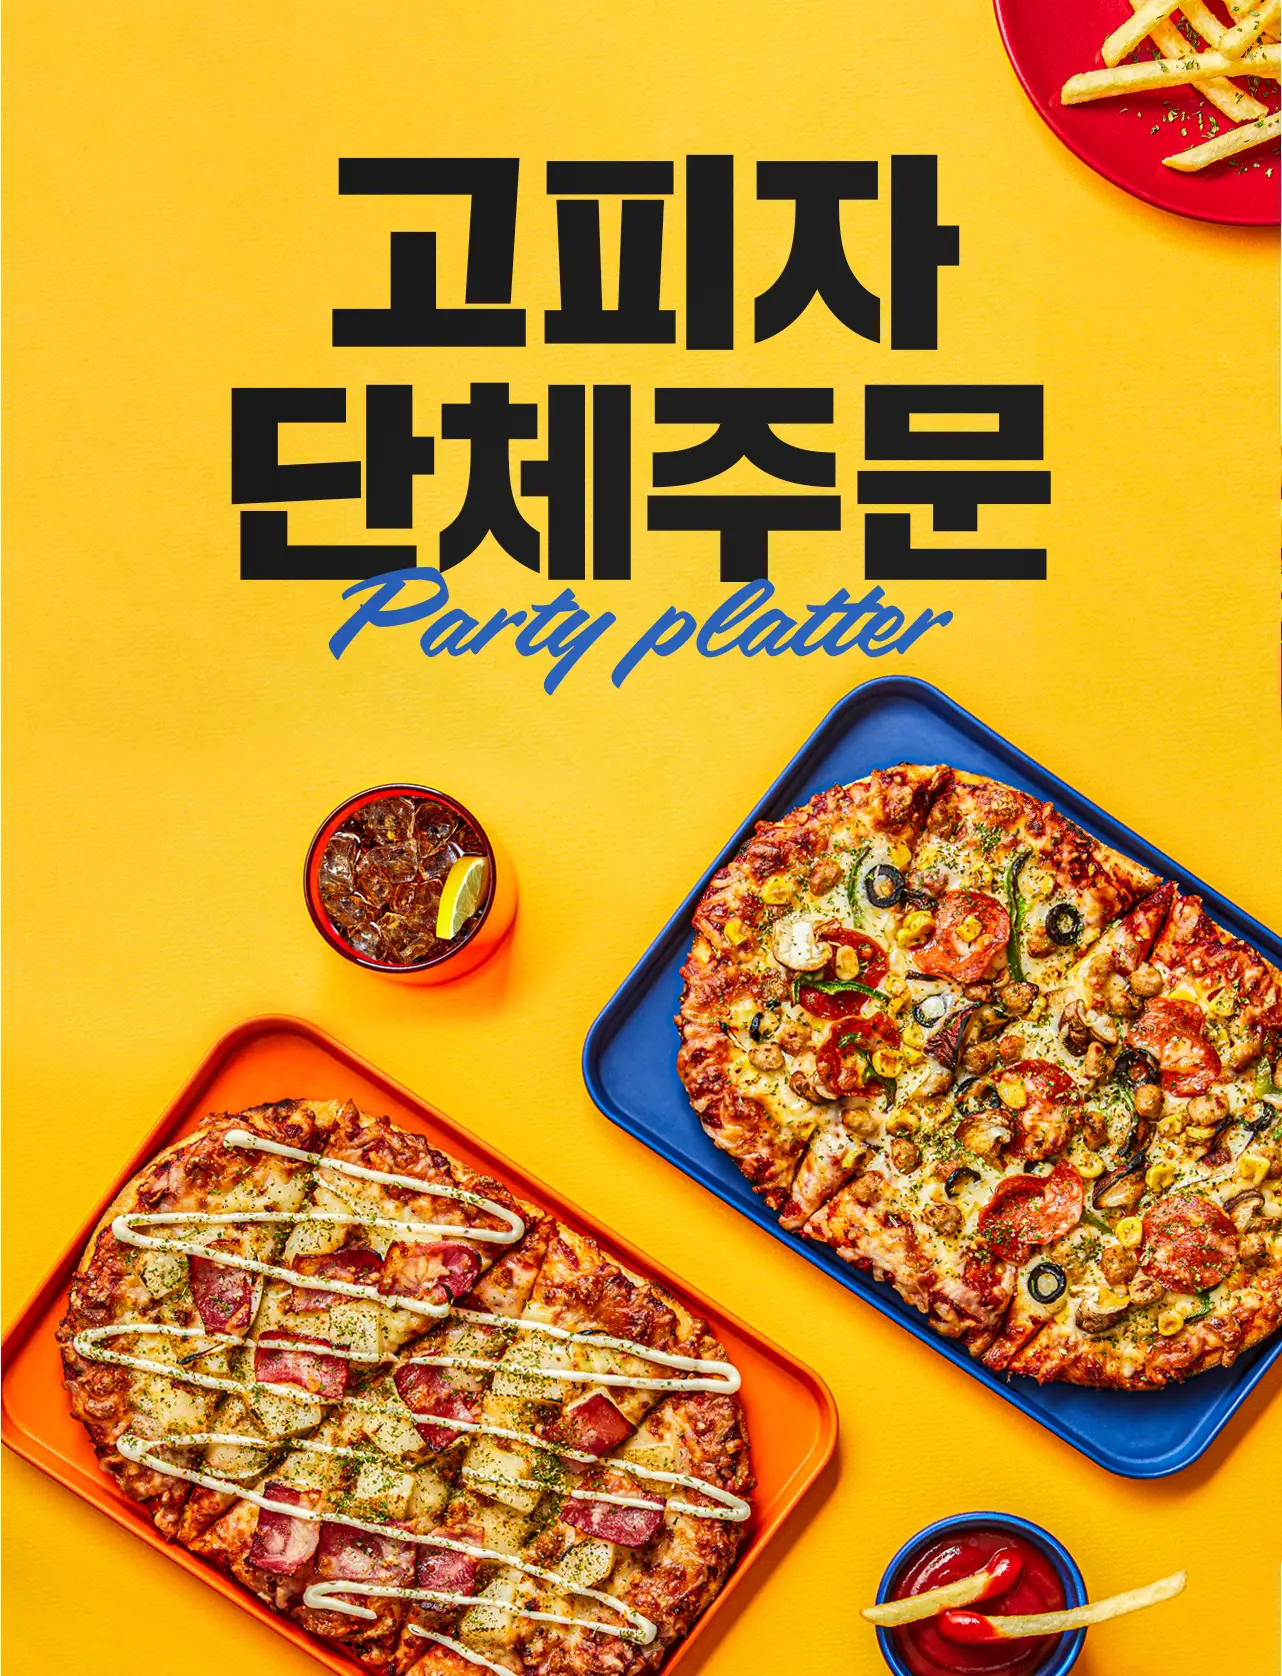
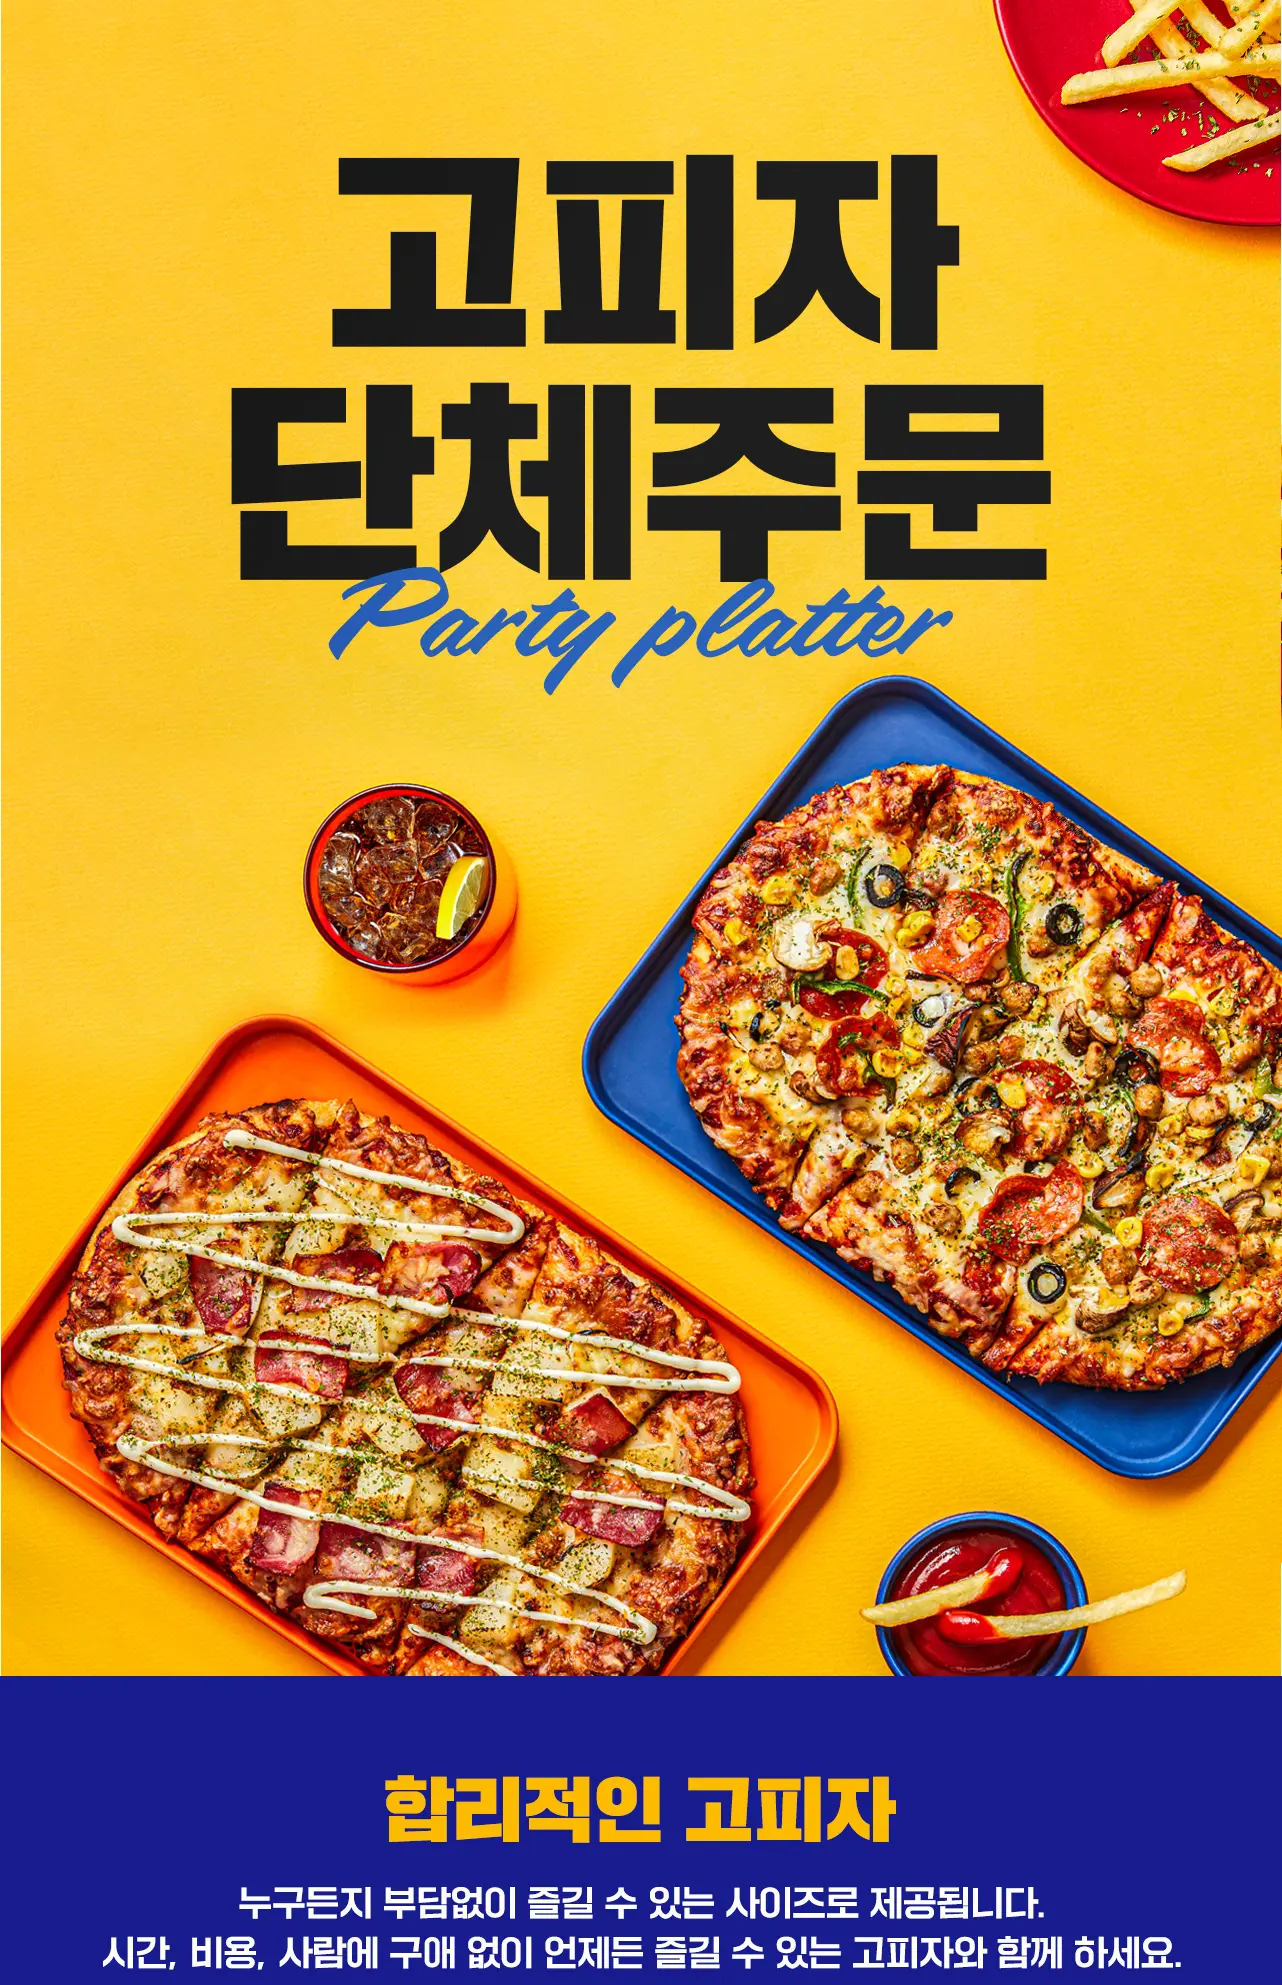
단체주문

diff --git a/pages/order/index.tsx b/pages/order/index.tsx
@@ -5,6 +5,9 @@ import Banner from "ComponentsFarm/pageComp/order/group/Banner";
 import { OrderWrap } from "ComponentsFarm/pageComp/order/style";
 import React from "react";
 import OrderLayout from "ComponentsFarm/layouts/pageLayouts/OrderLayout";
+import styled from "@emotion/styled";
+import { SwiperSlide } from "swiper/react";
+import VisibilitySensorSwiper from "ComponentsFarm/common/VisibilitySensorSwiper";
 
 const company = [
   "대구국제뮤지컬페스티벌",
@@ -21,16 +24,63 @@ const company = [
   "대한예수교 장로회- 청운교회",
 ];
 
+const Bnr = styled.div`
+  overflow: hidden;
+  width: 128rem;
+
+  .div_img1 {
+    width: 128.2rem;
+    height: 198.5rem;
+    background: url("/images/order/group/img_group_bnr1.webp") no-repeat left top / auto 100%;
+  }
+  .div_img2 {
+    width: 128.2rem;
+    height: 48.7rem;
+    background: url("/images/order/group/bg_group_bnr2.webp") no-repeat left top / auto 100%;
+  }
+  .div_img3 {
+    width: 128.2rem;
+    height: 178.3rem;
+    background: url("/images/order/group/img_group_bnr3.webp") no-repeat left top / auto 100%;
+  }
+`;
+
 function Group() {
   return (
     <OrderLayout>
       {/* <Banner /> */}
-      <div className="bnr">
-        <img src="https://dev-gopizza-homepage.s3.ap-northeast-2.amazonaws.com/ui/images/order/group/img_group_bnr1.webp" />
-        <img src="https://dev-gopizza-homepage.s3.ap-northeast-2.amazonaws.com/ui/images/order/group/img_group_bnr2.webp" />
-        <img src="https://dev-gopizza-homepage.s3.ap-northeast-2.amazonaws.com/ui/images/order/group/img_group_bnr3.webp" />
-        <img src="https://dev-gopizza-homepage.s3.ap-northeast-2.amazonaws.com/ui/images/order/group/img_group_bnr4.webp" />
-      </div>
+      <Bnr>
+        <div className="div_img1">
+          <div className="hiddenZoneV">
+            고피자 단체주문 합리적인 고피자 누구든지 부담없이 즐길 수 있는 사이즈로 제공됩니다. 시간, 비용, 사람에 구애 없이 언제든 즐길 수 있는 고피자와 함께 하세요.
+          </div>
+        </div>
+        <div className="div_img2">
+          <VisibilitySensorSwiper view={1}>
+            <SwiperSlide>
+              <img
+                src="/images/order/group/bnr_pizza1x2.webp"
+                alt="오리지널 페퍼로니 피자 - 고소하고 짭조름한 페퍼로니가 듬뿍 들어간 정통 페퍼로니 피자의 맛을 느껴보세요."
+              />
+            </SwiperSlide>
+            <SwiperSlide>
+              <img
+                src="/images/order/group/bnr_pizza2x2.webp"
+                alt="슈퍼 콤비네이션 피자 - 남녀노소 모두가 좋아하는 피자로, 다양하고 풍부한 토핑의 조합을 맛볼 수 있습니다."
+              />
+            </SwiperSlide>
+            <SwiperSlide>
+              <img src="/images/order/group/bnr_pizza3x2.webp" alt="베이컨 포테이토 피자 - 담백한 감자와 바삭한 베이컨이 입안 가득! 기분 좋은 든든함을 느껴보세요." />
+            </SwiperSlide>
+          </VisibilitySensorSwiper>
+        </div>
+        <div className="div_img3">
+          <div className="hiddenZoneV">
+            단체주문 혜택 1. 10% 할인 - 주문 메뉴 전체 10% 할인 2. 배송비 무료 - 단체 주문 접수 건은 배송비 무료! 3. 모바일 쿠폰 발송 - 단체 주문 접수자에게 감사카드 및
+            모바일 쿠폰 발송
+          </div>
+        </div>
+      </Bnr>
       <h2 className="tit tit2">단체주문 예약 / 문의</h2>
       <p className="txt">정보 입력시, 동그라미 표시는 필수입력 항목입니다.</p>
       <Form type={"group"} />
